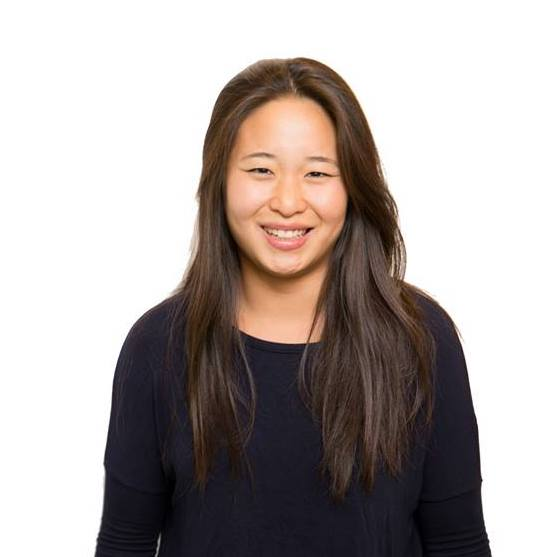
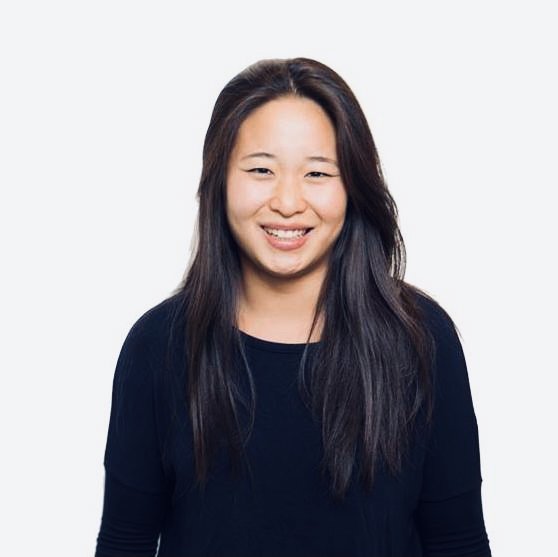
rebuilding site Sat Nov 28 16:31:48 EST 2020

Changed region(s): [[0.1828, 0.0916, 0.853, 0.8851], [0.5484, 0.3052, 0.5789, 0.3357]]

diff --git a/post/hyperloop-forbes/index.html b/post/hyperloop-forbes/index.html
@@ -594,7 +594,7 @@ if (!doNotTrack) {
   <div class="media author-card content-widget-hr">
     
       
-      <img class="portrait mr-3" src="/authors/admin/avatar_hu1c4bd982ff9a8dd5ded3ed0c970ad04c_24581_250x250_fill_q90_lanczos_center.jpg" alt="Avatar">
+      <img class="portrait mr-3" src="/authors/admin/avatar_hue5e38479884d14c33b13ea54f74e4bd6_40613_250x250_fill_q90_lanczos_center.jpg" alt="Avatar">
     
 
     <div class="media-body">

diff --git a/post/hyperloop-the-guardian/index.html b/post/hyperloop-the-guardian/index.html
@@ -594,7 +594,7 @@ if (!doNotTrack) {
   <div class="media author-card content-widget-hr">
     
       
-      <img class="portrait mr-3" src="/authors/admin/avatar_hu1c4bd982ff9a8dd5ded3ed0c970ad04c_24581_250x250_fill_q90_lanczos_center.jpg" alt="Avatar">
+      <img class="portrait mr-3" src="/authors/admin/avatar_hue5e38479884d14c33b13ea54f74e4bd6_40613_250x250_fill_q90_lanczos_center.jpg" alt="Avatar">
     
 
     <div class="media-body">

diff --git a/post/microsoft-ai-residency/index.html b/post/microsoft-ai-residency/index.html
@@ -594,7 +594,7 @@ if (!doNotTrack) {
   <div class="media author-card content-widget-hr">
     
       
-      <img class="portrait mr-3" src="/authors/admin/avatar_hu1c4bd982ff9a8dd5ded3ed0c970ad04c_24581_250x250_fill_q90_lanczos_center.jpg" alt="Avatar">
+      <img class="portrait mr-3" src="/authors/admin/avatar_hue5e38479884d14c33b13ea54f74e4bd6_40613_250x250_fill_q90_lanczos_center.jpg" alt="Avatar">
     
 
     <div class="media-body">

diff --git a/post/partnership-on-ai-risk-assessment-report/index.html b/post/partnership-on-ai-risk-assessment-report/index.html
@@ -594,7 +594,7 @@ if (!doNotTrack) {
   <div class="media author-card content-widget-hr">
     
       
-      <img class="portrait mr-3" src="/authors/admin/avatar_hu1c4bd982ff9a8dd5ded3ed0c970ad04c_24581_250x250_fill_q90_lanczos_center.jpg" alt="Avatar">
+      <img class="portrait mr-3" src="/authors/admin/avatar_hue5e38479884d14c33b13ea54f74e4bd6_40613_250x250_fill_q90_lanczos_center.jpg" alt="Avatar">
     
 
     <div class="media-body">

diff --git a/post/truman-scholarship/index.html b/post/truman-scholarship/index.html
@@ -594,7 +594,7 @@ if (!doNotTrack) {
   <div class="media author-card content-widget-hr">
     
       
-      <img class="portrait mr-3" src="/authors/admin/avatar_hu1c4bd982ff9a8dd5ded3ed0c970ad04c_24581_250x250_fill_q90_lanczos_center.jpg" alt="Avatar">
+      <img class="portrait mr-3" src="/authors/admin/avatar_hue5e38479884d14c33b13ea54f74e4bd6_40613_250x250_fill_q90_lanczos_center.jpg" alt="Avatar">
     
 
     <div class="media-body">

diff --git a/authors/admin/index.html b/authors/admin/index.html
@@ -424,7 +424,7 @@ if (!doNotTrack) {
 
       
       
-      <img class="portrait" src="/authors/admin/avatar_hu1c4bd982ff9a8dd5ded3ed0c970ad04c_24581_250x250_fill_q90_lanczos_center.jpg" alt="Avatar">
+      <img class="portrait" src="/authors/admin/avatar_hue5e38479884d14c33b13ea54f74e4bd6_40613_250x250_fill_q90_lanczos_center.jpg" alt="Avatar">
       
 
       <div class="portrait-title">

diff --git a/index.html b/index.html
@@ -485,7 +485,7 @@ if (!doNotTrack) {
 
       
       
-      <img class="portrait" src="/authors/admin/avatar_hu1c4bd982ff9a8dd5ded3ed0c970ad04c_24581_250x250_fill_q90_lanczos_center.jpg" alt="Avatar">
+      <img class="portrait" src="/authors/admin/avatar_hue5e38479884d14c33b13ea54f74e4bd6_40613_250x250_fill_q90_lanczos_center.jpg" alt="Avatar">
       
 
       <div class="portrait-title">
